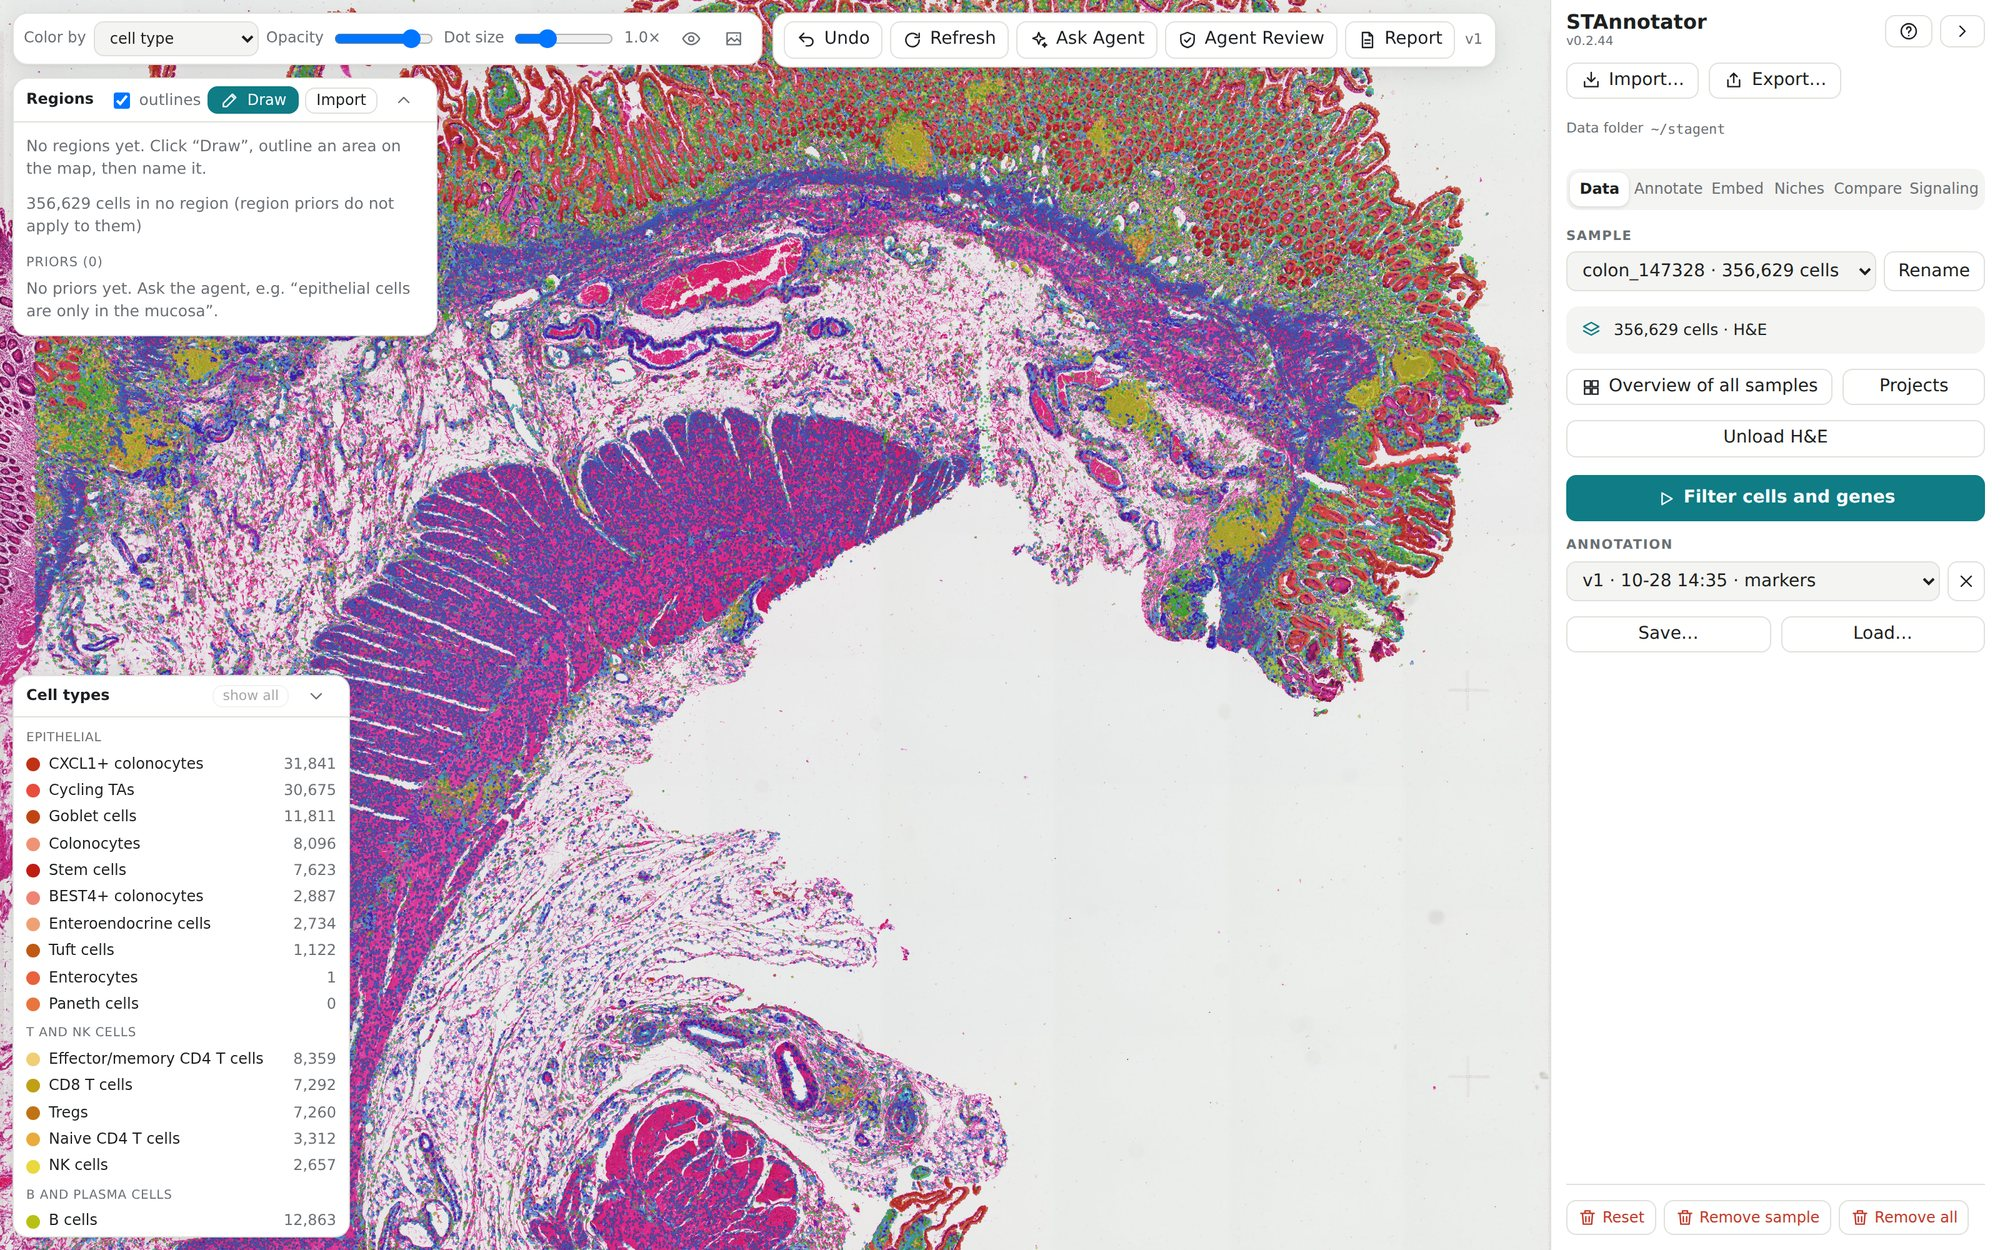
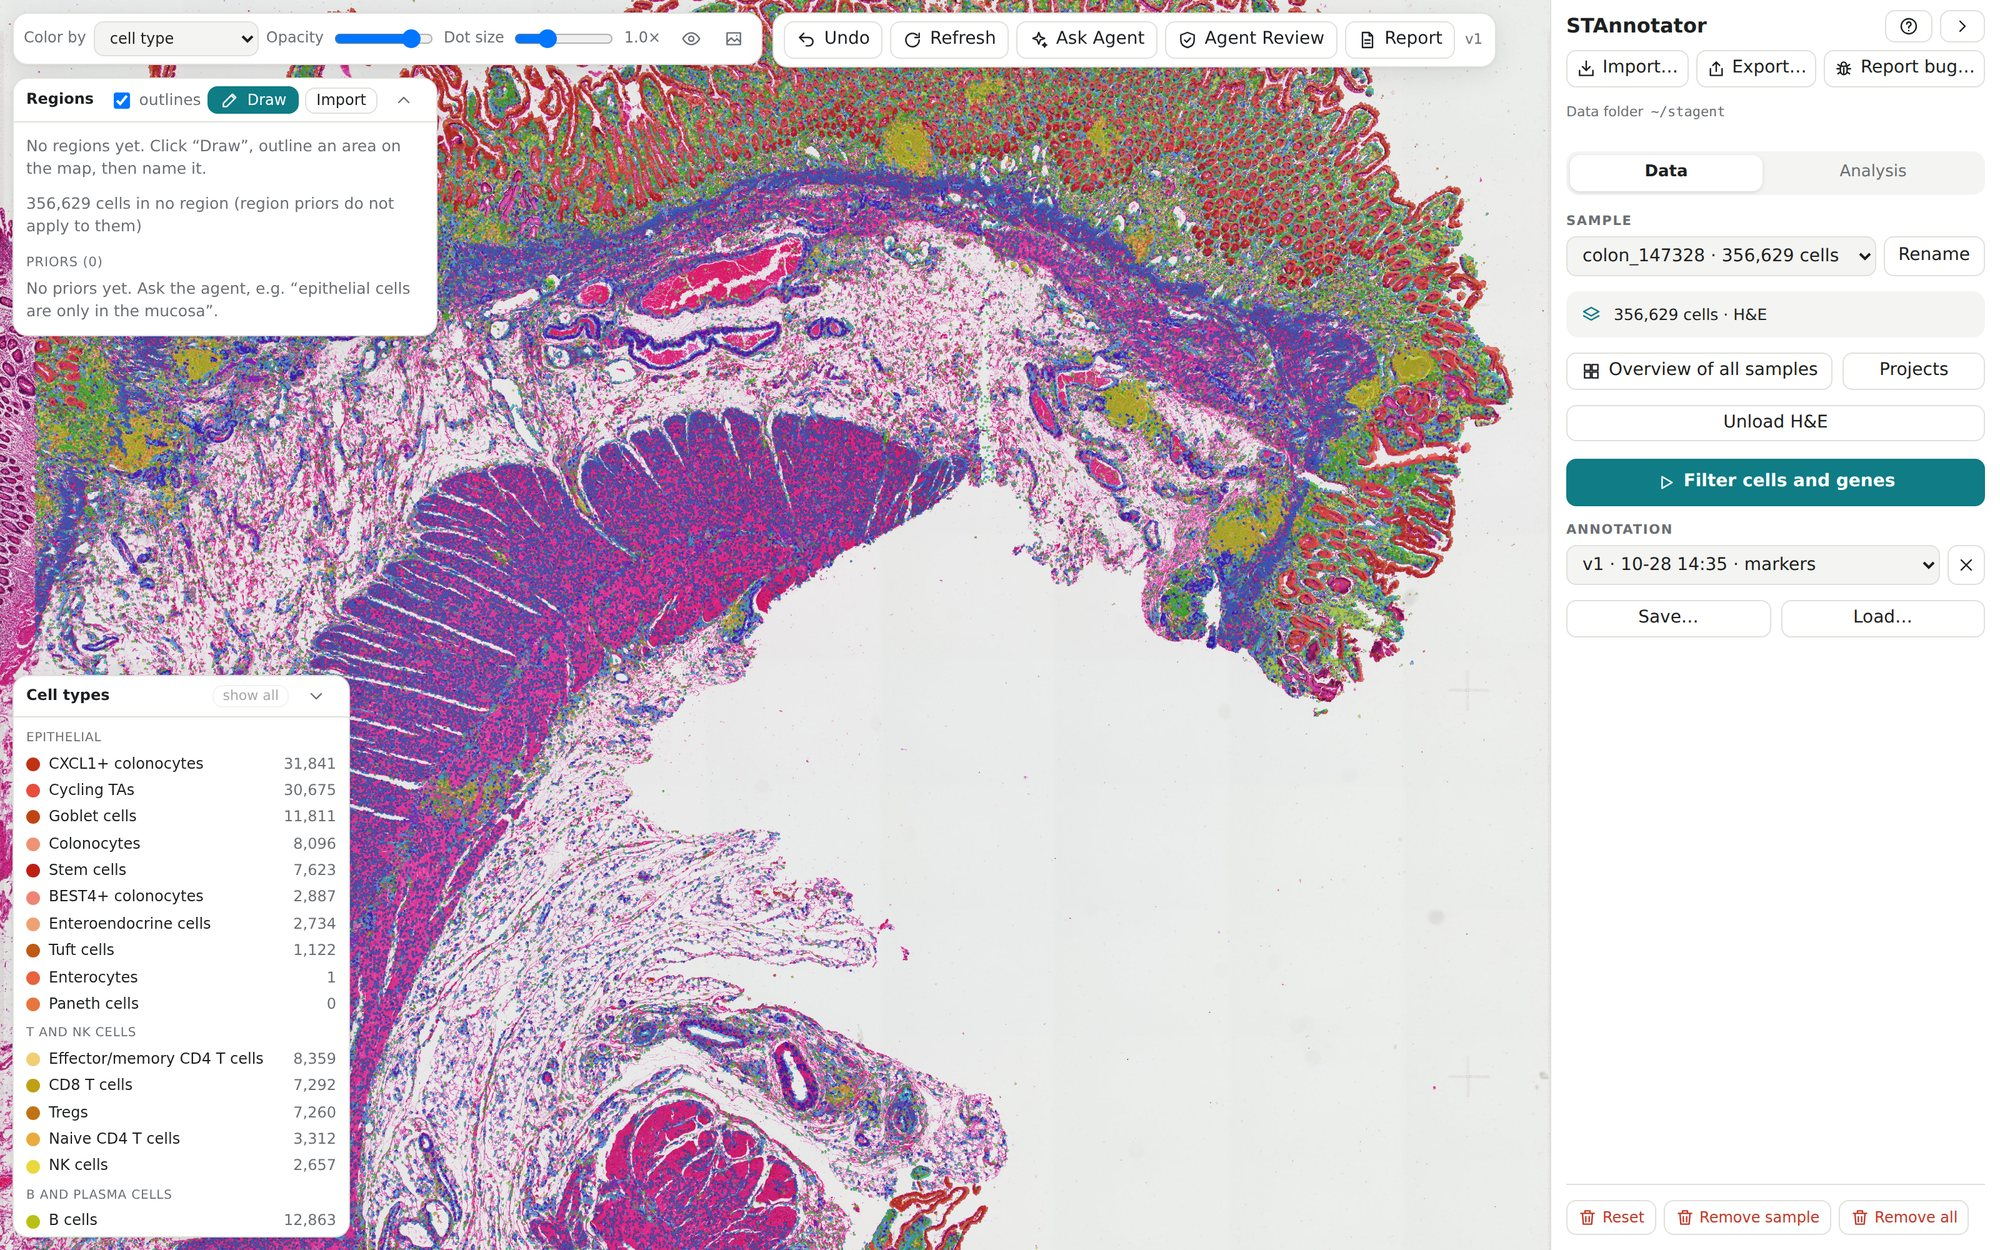
Website: the main screenshot from v0.2.47 (no version under the title, Report bug beside Export, the Data and Analysis tabs); the mucosa close-up stays

Changed region(s): [[0.775, 0.0, 0.992, 0.5304], [0.93, 0.468, 0.961, 0.5304]]

diff --git a/docs/index.html b/docs/index.html
@@ -325,7 +325,7 @@ footer a { color: var(--muted); }
 
       <div class="slide">
         <figure>
-          <img src="assets/app-overview.jpg?v=0.2.44" width="2000" height="1250"
+          <img src="assets/app-overview.jpg?v=0.2.47" width="2000" height="1250"
                alt="The STAnnotator window: a colon section on its H&amp;E with each cell drawn as a dot colored by cell type, showing the mucosa, lymphoid follicles and muscle, the cell type legend with counts on the left, and the Data panel on the right.">
         </figure>
         <div class="label" aria-label="Specimen shown">
